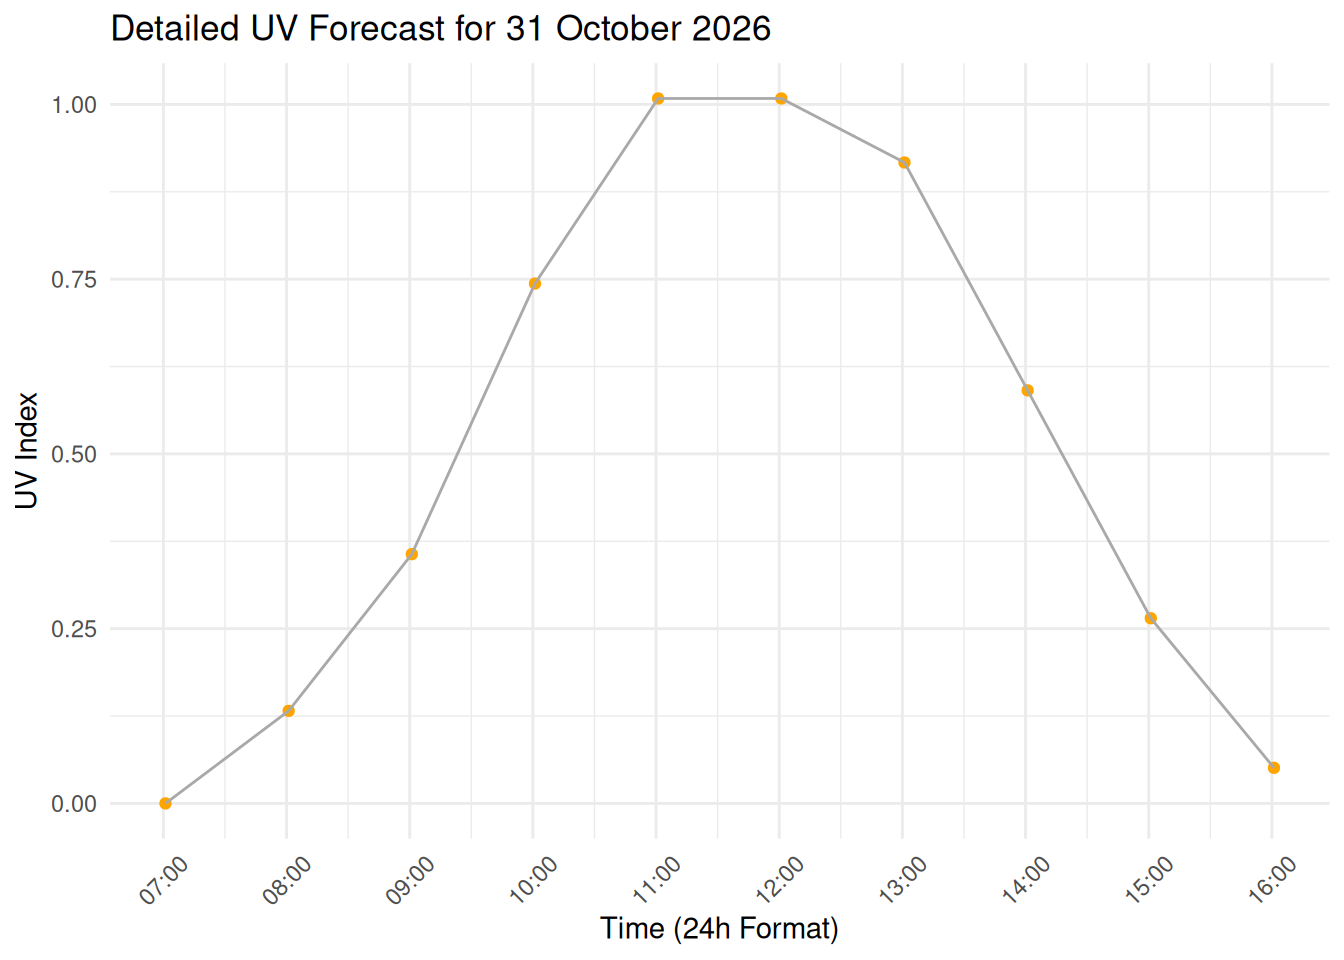
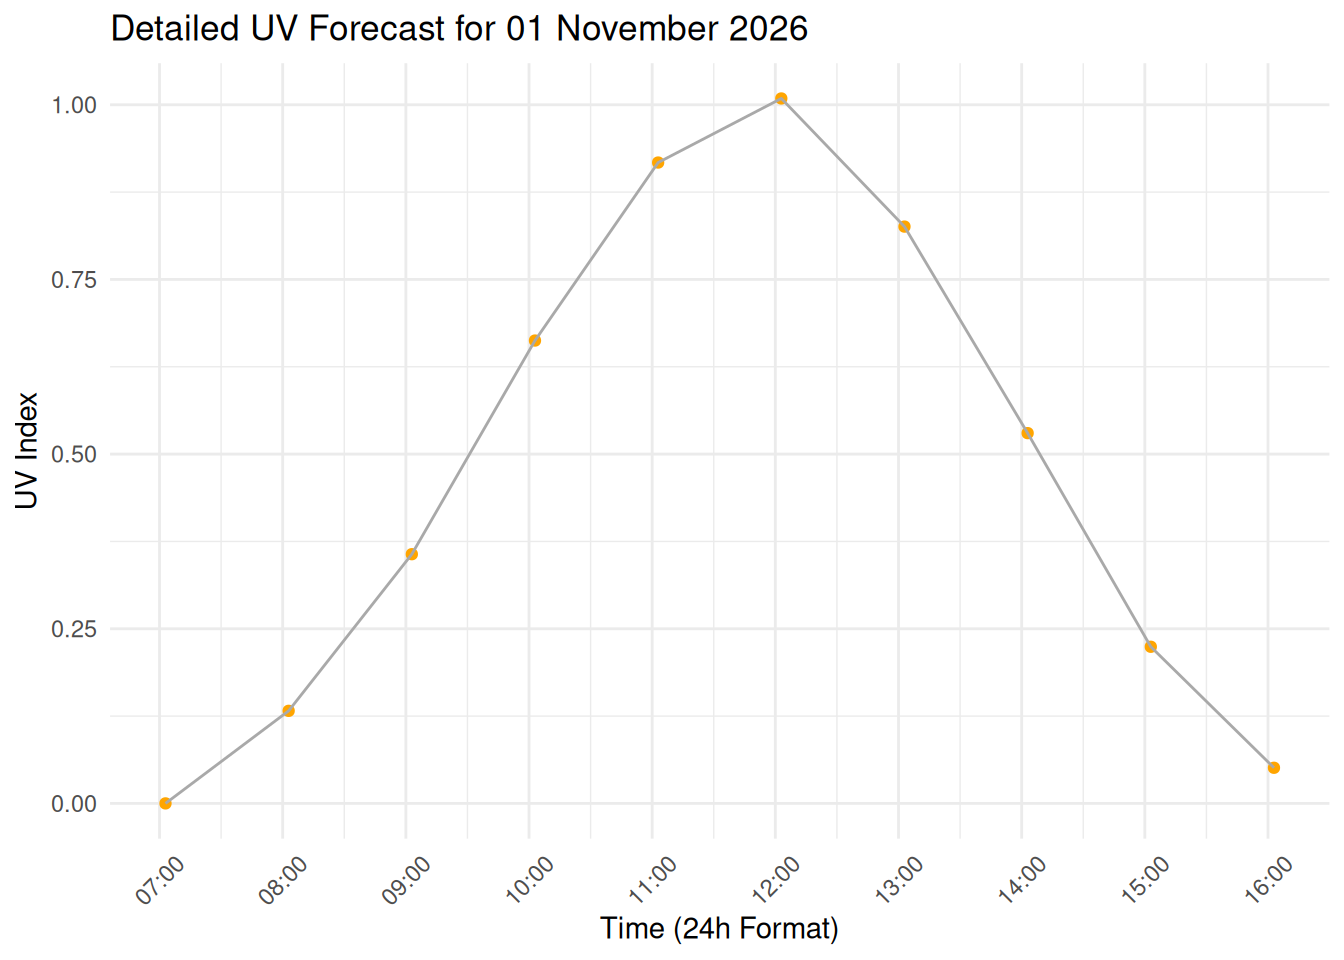
Built site for gh-pages

diff --git a/index.html b/index.html
@@ -6,7 +6,7 @@
 
 <meta name="viewport" content="width=device-width, initial-scale=1.0, user-scalable=yes">
 
-<meta name="dcterms.date" content="2026-10-31">
+<meta name="dcterms.date" content="2026-11-01">
 
 <title>Clear sky UV graph</title>
 <style>
@@ -95,7 +95,7 @@ ul.task-list li input[type="checkbox"] {
     <div>
     <div class="quarto-title-meta-heading">Published</div>
     <div class="quarto-title-meta-contents">
-      <p class="date">31 October 2026</p>
+      <p class="date">01 November 2026</p>
     </div>
   </div>
   
